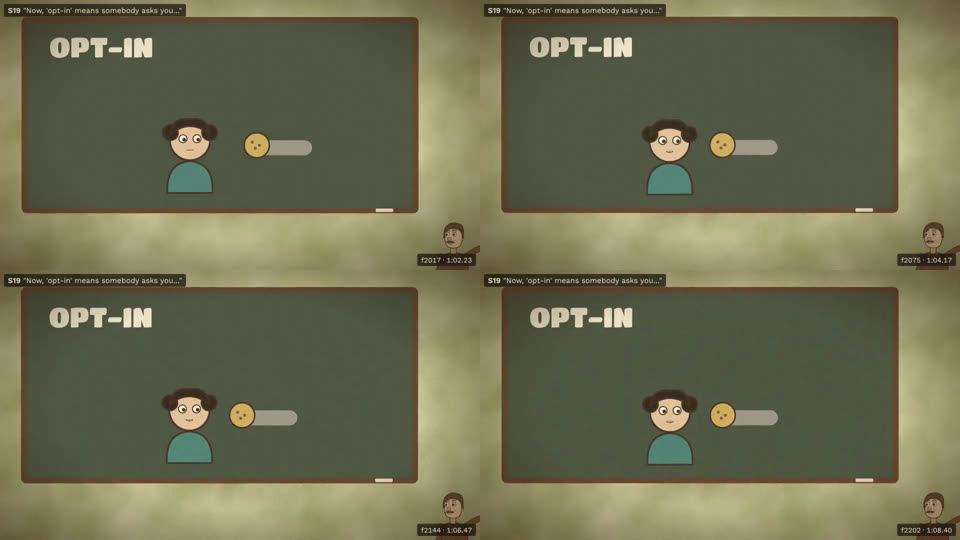
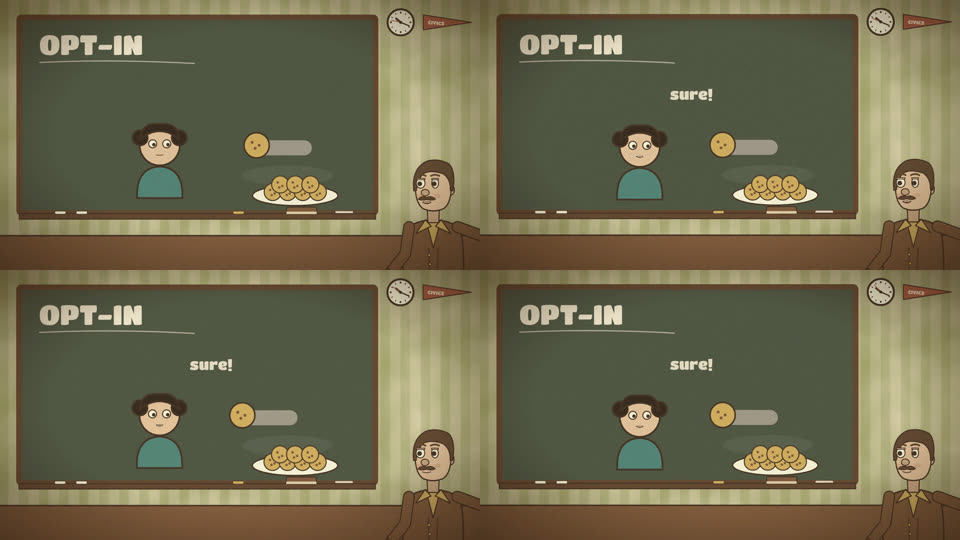
M4 section 5 (Lesson): classroom board, chalk writing, labelled maze, stamp, fluttering papers
Claude-Session: https://claude.ai/code/session_01U1tVYjDQe516Mp7MHbmFPv

diff --git a/remotion/src/shots/Lesson.tsx b/remotion/src/shots/Lesson.tsx
@@ -5,31 +5,48 @@ import { Wash } from "../film/Paper";
 import { Caption, Chalkboard, Door, Envelope, Person, Kid, Slate, TV, Tile } from "../components/props";
 import { Narrator } from "../rigs/Narrator";
 import { Switch } from "../rigs/Switch";
-import { BUBBLE } from "../theme/fonts";
+import { BUBBLE, SANS } from "../theme/fonts";
 import { C, H, W } from "../theme/palette";
-import { mouthAt } from "../timing";
+import { FPS, mouthAt } from "../timing";
+import { ChalkTray, Clock, Pennant, Wallpaper, breath } from "../components/sets";
 import { S28 as S28Key } from "../scenes/KeyFrames";
 import { Bg, ShotC, blink, bump, ez } from "./common";
 import { NarratorSet } from "./Intro";
 
 const LAWSUIT = "Alleged in a lawsuit. Google denies changing settings.";
 
-// the lesson board: a chalkboard word heading, a cartoon kid, and the scene's prop
-const Board: React.FC<{ word: string; g: number; children: React.ReactNode }> = ({ word, g, children }) => (
-  <Bg id="lesson" seed={19} base={C.avocado}>
-    <Chalkboard x={100} y={80} w={1560} h={760} lines={[]} />
-    <text x={200} y={230} fontFamily={BUBBLE} fontSize={110} fill={C.white} opacity={0.9}>{word}</text>
-    {children}
-    <g transform="translate(1810, 1010) scale(0.36)"><Narrator mouth={mouthAt(g, "narrator")} armR="point" head={-1} /></g>
-  </Bg>
-);
+// the lesson board: the classroom wall (stripes, the clock, the pennant), a big chalkboard whose heading writes itself
+// on in chalk (with a puff of chalk dust), and the Narrator at the right, chest-up, cropped by the frame's edge
+const Board: React.FC<{ word: string; g: number; f?: number; children: React.ReactNode }> = ({ word, g, f = 99, children }) => {
+  const write = ez(f, 0, 14);
+  return (
+    <Bg id="lesson" seed={19} base={C.avocado}>
+      <Wallpaper id="lesson" kind="stripe" a={C.avocado} b={C.cream} opacity={0.18} />
+      <g transform="translate(1600, 90)"><Clock t={g / FPS + 40} r={52} /></g>
+      <g transform="translate(1690, 60) scale(0.6)"><Pennant text="CIVICS" color={C.red} /></g>
+      <Chalkboard x={80} y={70} w={1420} h={780} lines={[]} />
+      <ChalkTray x={80} y={852} w={1420} />
+      <clipPath id="lesson-write"><rect x={140} y={100} width={30 + write * 900} height={180} /></clipPath>
+      <text x={160} y={220} fontFamily={BUBBLE} fontSize={110} fill={C.white} opacity={0.9} clipPath="url(#lesson-write)">{word}</text>
+      {write > 0 && write < 1 && <circle cx={170 + write * 900} cy={190} r={20} fill={C.white} opacity={0.25} />}
+      <path d="M160,250 q300,-14 620,4" stroke={C.white} strokeWidth={5} fill="none" opacity={0.5 * write} />
+      <ellipse cx={1150} cy={700} rx={180} ry={40} fill={C.white} opacity={0.06} />
+      {children}
+      <rect x={-20} y={940} width={W + 40} height={160} fill={C.cardigan} stroke={C.ink} strokeWidth={6} />
+      <g transform={`translate(1730, ${880 - (breath(g) - 1) * 200}) scale(0.72)`}><Narrator mouth={mouthAt(g, "narrator")} armR="tap" armL="down" head={-1} blink={blink(g)} /></g>
+    </Bg>
+  );
+};
 
 // S19: "Now, 'opt-in' means somebody asks you…": a cartoon kid is offered a cookie and nods
 export const S19: ShotC = ({ f, g }) => {
   const offer = ez(f, 10, 30);
   return (
-    <Board word="OPT-IN" g={g}>
-      <g transform={`translate(760, ${540 + Math.sin(f / 4) * (f > 40 ? 8 : 0)})`}><Kid seed={1} mouth={f > 40 ? "B" : "X"} look={[0.8, 0.3]} /></g>
+    <Board word="OPT-IN" g={g} f={f}>
+      <g transform={`translate(640, ${560 + Math.sin(f / 4) * (f > 40 ? 8 : 0)})`}><Kid seed={1} mouth={f > 40 ? "B" : "X"} look={[0.8, 0.3]} /></g>
+      {f > 40 && <text x={760} y={400} fontFamily={BUBBLE} fontSize={60} fill={C.white} opacity={0.85}>sure!</text>}
+      <g transform="translate(1180, 780)"><ellipse rx={170} ry={40} fill={C.white} stroke={C.ink} strokeWidth={5} />
+        {[-90, -30, 30, 90, -60, 0, 60].map((x, i) => <g key={i} transform={`translate(${x}, ${i < 4 ? -14 : -44})`}><circle r={34} fill={C.mustard} stroke={C.ink} strokeWidth={4} />{[[-10, -8], [8, 6], [-4, 12]].map(([cx, cy], k) => <circle key={k} cx={cx} cy={cy} r={5} fill={C.cardigan} />)}</g>)}</g>
       <g transform={`translate(${1300 - offer * 260}, 560)`}>
         <path d="M120,30 L-40,30" stroke={C.sleeve} strokeWidth={60} strokeLinecap="round" />
         <circle cx={-70} cy={20} r={50} fill={C.mustard} stroke={C.ink} strokeWidth={6} />
@@ -47,14 +64,19 @@ export const S20: ShotC = ({ f, g }) => {
   const k = Math.floor(p), u = p - k;
   const x = path[k][0] + (path[k + 1][0] - path[k][0]) * u, y = path[k][1] + (path[k + 1][1] - path[k][1]) * u;
   return (
-    <Board word="OPT-OUT" g={g}>
-      {[[300, 300, 1400, 0], [300, 300, 0, 500], [300, 800, 900, 0], [600, 520, 0, 280], [1050, 300, 0, 420], [1400, 480, 0, 320], [600, 520, 300, 0]].map(([a, b, w, h], i) => (
-        <rect key={i} x={a} y={b} width={Math.max(w, 26)} height={Math.max(h, 26)} rx={10} fill={C.white} stroke={C.ink} strokeWidth={5} opacity={0.9} />
+    <Board word="OPT-OUT" g={g} f={f}>
+      {/* the maze's walls are menu panels, each labelled like a settings page */}
+      {[[300, 300, 1100, 0, "Settings"], [300, 300, 0, 500, "Privacy"], [300, 780, 900, 0, "More"], [600, 520, 0, 260, "Advanced"], [1050, 300, 0, 420, "Personalize"], [1400, 330, 0, 470, "Other"], [600, 520, 300, 0, "Help"]].map(([a, b, w, h, t], i) => (
+        <g key={i}>
+          <rect x={a as number} y={b as number} width={Math.max(w as number, 30)} height={Math.max(h as number, 30)} rx={10} fill={C.white} stroke={C.ink} strokeWidth={5} opacity={0.92} />
+          <text x={(a as number) + 12} y={(b as number) + ((w as number) > 0 ? 22 : 24)} fontFamily={SANS} fontSize={20} fontWeight={600} fill={C.inkSoft} transform={(w as number) > 0 ? undefined : `rotate(90, ${(a as number) + 12}, ${(b as number) + 24})`}>{t}</text>
+        </g>
       ))}
       <g transform={`translate(${x}, ${y}) scale(0.5)`}><Kid seed={1} look={[1, 0]} /></g>
       <circle cx={x + 55} cy={y + 80} r={22} fill={C.mustard} stroke={C.ink} strokeWidth={4} />
-      <text x={1560} y={300} fontFamily={BUBBLE} fontSize={40} fill={C.white}>EXIT?</text>
-      <g transform="translate(1720, 720) scale(0.32)"><Switch pose="proud" mouth={mouthAt(g, "switch")} /></g>
+      <text x={1300} y={280} fontFamily={BUBBLE} fontSize={44} fill={C.white} opacity={0.9}>EXIT?</text>
+      <path d="M1300,300 l60,0 l-12,-12 M1360,300 l-12,12" stroke={C.white} strokeWidth={4} fill="none" opacity={0.8} />
+      <g transform="translate(1380, 770) scale(0.3)"><Switch pose="proud" mouth={mouthAt(g, "switch")} blink={blink(g, 3)} /></g>
     </Board>
   );
 };
@@ -62,21 +84,27 @@ export const S20: ShotC = ({ f, g }) => {
 // S21: "And 'default' is the setting that they picked…": the kid sits down to a plate already piled with broccoli
 // S22: "…they'll say you picked the same.": a rubber stamp slams "YOU CHOSE THIS" onto the plate
 const Plate: React.FC<{ f: number; g: number; stamp?: boolean }> = ({ f, g, stamp }) => {
-  const s = stamp ? ez(f, 4, 10) : 0;
+  const s = stamp ? ez(f, 4, 10) * (1 - ez(f, 18, 30)) : 0; // down hard, then lifted away
+  const printed = stamp && f >= 10;
   return (
-    <Board word="DEFAULT" g={g}>
+    <Board word="DEFAULT" g={g} f={stamp ? 99 : f}>
+      <g transform={`translate(${stamp ? Math.sin(f * 3) * 8 * bump(f, 10, 8) : 0}, 0)`}>
       <g transform="translate(900, 460)"><Kid seed={1} mouth={stamp ? "E" : "X"} look={[0, 1]} /></g>
+      <g transform="translate(560, 730) rotate(-10)"><rect x={-20} y={-90} width={40} height={180} rx={8} fill={C.cream} stroke={C.ink} strokeWidth={4} />{[-12, 0, 12].map((x) => <line key={x} x1={x} y1={-90} x2={x} y2={-140} stroke={C.ink} strokeWidth={6} />)}</g>
+      <path d="M1180,700 l120,-20 l20,110 l-120,20 Z" fill={C.red} stroke={C.ink} strokeWidth={4} opacity={0.85} />
       <g transform="translate(900, 720)">
         <ellipse rx={300} ry={70} fill={C.white} stroke={C.ink} strokeWidth={7} />
         {Array.from({ length: 9 }, (_, i) => <circle key={i} cx={-160 + i * 40} cy={-30 - (i % 3) * 22} r={34} fill={C.avocado} stroke={C.ink} strokeWidth={5} />)}
       </g>
       {stamp && (
-        <g transform={`translate(1220, ${360 + s * 300})`}>
+        <g transform={`translate(900, ${300 + s * 400})`}>
           <rect x={-40} y={-200} width={80} height={140} rx={20} fill={C.cardigan} stroke={C.ink} strokeWidth={6} />
           <rect x={-150} y={-60} width={300} height={70} rx={10} fill={C.red} stroke={C.ink} strokeWidth={6} />
         </g>
       )}
-      {stamp && s > 0.95 && <text x={1080} y={760} fontFamily={BUBBLE} fontSize={56} fill={C.red} transform="rotate(-8, 1080, 760)" opacity={0.9}>YOU CHOSE THIS</text>}
+      {printed && <text x={900} y={745} textAnchor="middle" fontFamily={BUBBLE} fontSize={54} fill={C.red} transform="rotate(-6, 900, 745)" opacity={0.92}>YOU CHOSE THIS</text>}
+      {printed && [[640, 700], [1160, 720], [700, 790], [1120, 790], [980, 680]].map(([x, y], i) => <circle key={i} cx={x} cy={y} r={6 + (i % 3) * 3} fill={C.red} opacity={0.7} />)}
+      </g>
     </Board>
   );
 };
@@ -93,13 +121,24 @@ export const S23: ShotC = ({ f, g, len }) => {
         {Array.from({ length: 6 }, (_, i) => <rect key={i} x={-180 + (i % 2) * 8} y={-i * 22} width={360} height={24} fill={C.white} stroke={C.ink} strokeWidth={4} />)}
         <text x={-100} y={-120} fontFamily={BUBBLE} fontSize={46} fill={C.ink}>TEST</text>
       </g>
+      {f > thud && f < thud + 16 && [-1, 1].map((k) => [0, 1].map((j) => (
+        <circle key={`${k}${j}`} cx={1500 + k * (200 + (f - thud) * 8 + j * 40)} cy={890 - j * 20 - (f - thud) * 2} r={26 - j * 8} fill={C.cream} stroke={C.ink} strokeWidth={3} opacity={1 - (f - thud) / 16} />
+      )))}
     </NarratorSet>
   );
 };
 
 // S24: V06 "There's always a test.": Switch, half buried under the stack
-export const S24: ShotC = ({ g }) => (
+export const S24: ShotC = ({ f, g }) => (
   <Bg id="s24" seed={24} base={C.avocado}>
+    <Wallpaper id="s24" kind="stripe" a={C.avocado} b={C.cream} opacity={0.18} />
+    {[0, 1, 2].map((k) => {
+      const t = ((f + k * 17) % 60) / 60;
+      return <g key={k} transform={`translate(${700 + k * 260 + Math.sin(t * 6 + k) * 80}, ${200 + t * 560}) rotate(${Math.sin(t * 8 + k) * 40})`} opacity={1 - t * 0.5}>
+        <rect x={-70} y={-50} width={140} height={100} fill={C.white} stroke={C.ink} strokeWidth={3} />
+        {[0, 1, 2].map((r) => <rect key={r} x={-54} y={-30 + r * 22} width={100 - r * 20} height={8} fill={C.creamShade} />)}
+      </g>;
+    })}
     <rect x={0} y={760} width={W} height={320} fill={C.cardigan} stroke={C.ink} strokeWidth={7} />
     <g transform="translate(960, 640) rotate(-8)"><Switch pose="relaxed" toggle={0.5} mouth={mouthAt(g, "switch")} armL={120} /></g>
     <g transform="translate(980, 840)">

diff --git a/log/production_log.md b/log/production_log.md
@@ -139,3 +139,9 @@ Append-only. One entry per action: timestamp, step (shot ID where relevant), wha
 - **What:** S13 over a turning sunburst; the five rockers bounce and flick ON on the downbeats; music notes drift up. A bedroom set for S14–S15 (and S37): daisy wallpaper, a curtained window (sunrise or moon), a headboard bed with a patchwork quilt and pillow, a bedside table with an alarm clock that rings at sunrise ("BRRING!"), a dresser with three drawers and a plant, slippers, a rug; night dims it. The gags are now staged in that room: a blanket thrown over the pillow; the mute bar; the top drawer that shuts on the answer box and slides back open (chorus 2: a zipped sleeping bag, the mute bar sliding off by itself, a lunchbox that pops open). S16 gains the wallpaper and skirting. S17's crooked redraw shows its pencil construction lines and eraser crumbs, with "on, on, on" drifting up. S18 is a ruled notebook page (binder holes, a red margin, a coffee ring, a star and notes) with the hand drawing each rocker with a pencil.
 - **Agent review:** stills caught the bed's headboard colliding with the bedside table and S18's hand off-frame; fixed before the render.
 - **Command:** `scripts/m4_section.sh Sec04-Chorus1 sec04_chorus1`
+
+## 2026-11-06T12:30:00-05:00 — M4 detail pass: section 5, the Lesson (S19–S24)
+
+- **What:** The lesson board sits in the classroom (striped wallpaper, the clock, the pennant, a floor), with a chalk tray; each heading writes itself on in chalk with a puff of dust and an underline; the Narrator is chest-up at the right, cropped by the frame, turned to the board. S19: a plate of chocolate-chip cookies; the kid says "sure!". S20: the maze is built of labelled menu panels ("Settings", "Privacy", "More", "Advanced", "Personalize", "Other", "Help") with an "EXIT?" arrow; Switch watches from the chalk tray. S21: a fork and napkin. S22: the stamp slams down on the plate (the frame shakes), lifts, and leaves "YOU CHOSE THIS" and ink flecks. S23: a dust puff when the test papers thud onto the desk. S24: papers flutter down around the buried Switch.
+- **Agent review:** caught an off-board "EXIT?", Switch hidden behind the Narrator, and a stamp that missed the plate and hid its own print; fixed.
+- **Command:** `scripts/m4_section.sh Sec05-Lesson sec05_lesson`

diff --git a/log/renders.md b/log/renders.md
@@ -53,3 +53,7 @@ Every render: timestamp, shot ID, composition, props, commit hash, output, conta
 ## 2026-11-06T12:08 — M4 section 4, chorus 1
 
 - **Shots:** S13–S18. **Composition:** `Sec04-Chorus1`, 602 frames. **Command:** `scripts/m4_section.sh Sec04-Chorus1 sec04_chorus1`. **Commit:** built on 2159b8a + this entry's changes.
+
+## 2026-11-06T12:28 — M4 section 5, the Lesson
+
+- **Shots:** S19–S24. **Composition:** `Sec05-Lesson`, 896 frames. **Command:** `scripts/m4_section.sh Sec05-Lesson sec05_lesson`. **Commit:** built on 72b3204 + this entry's changes.
